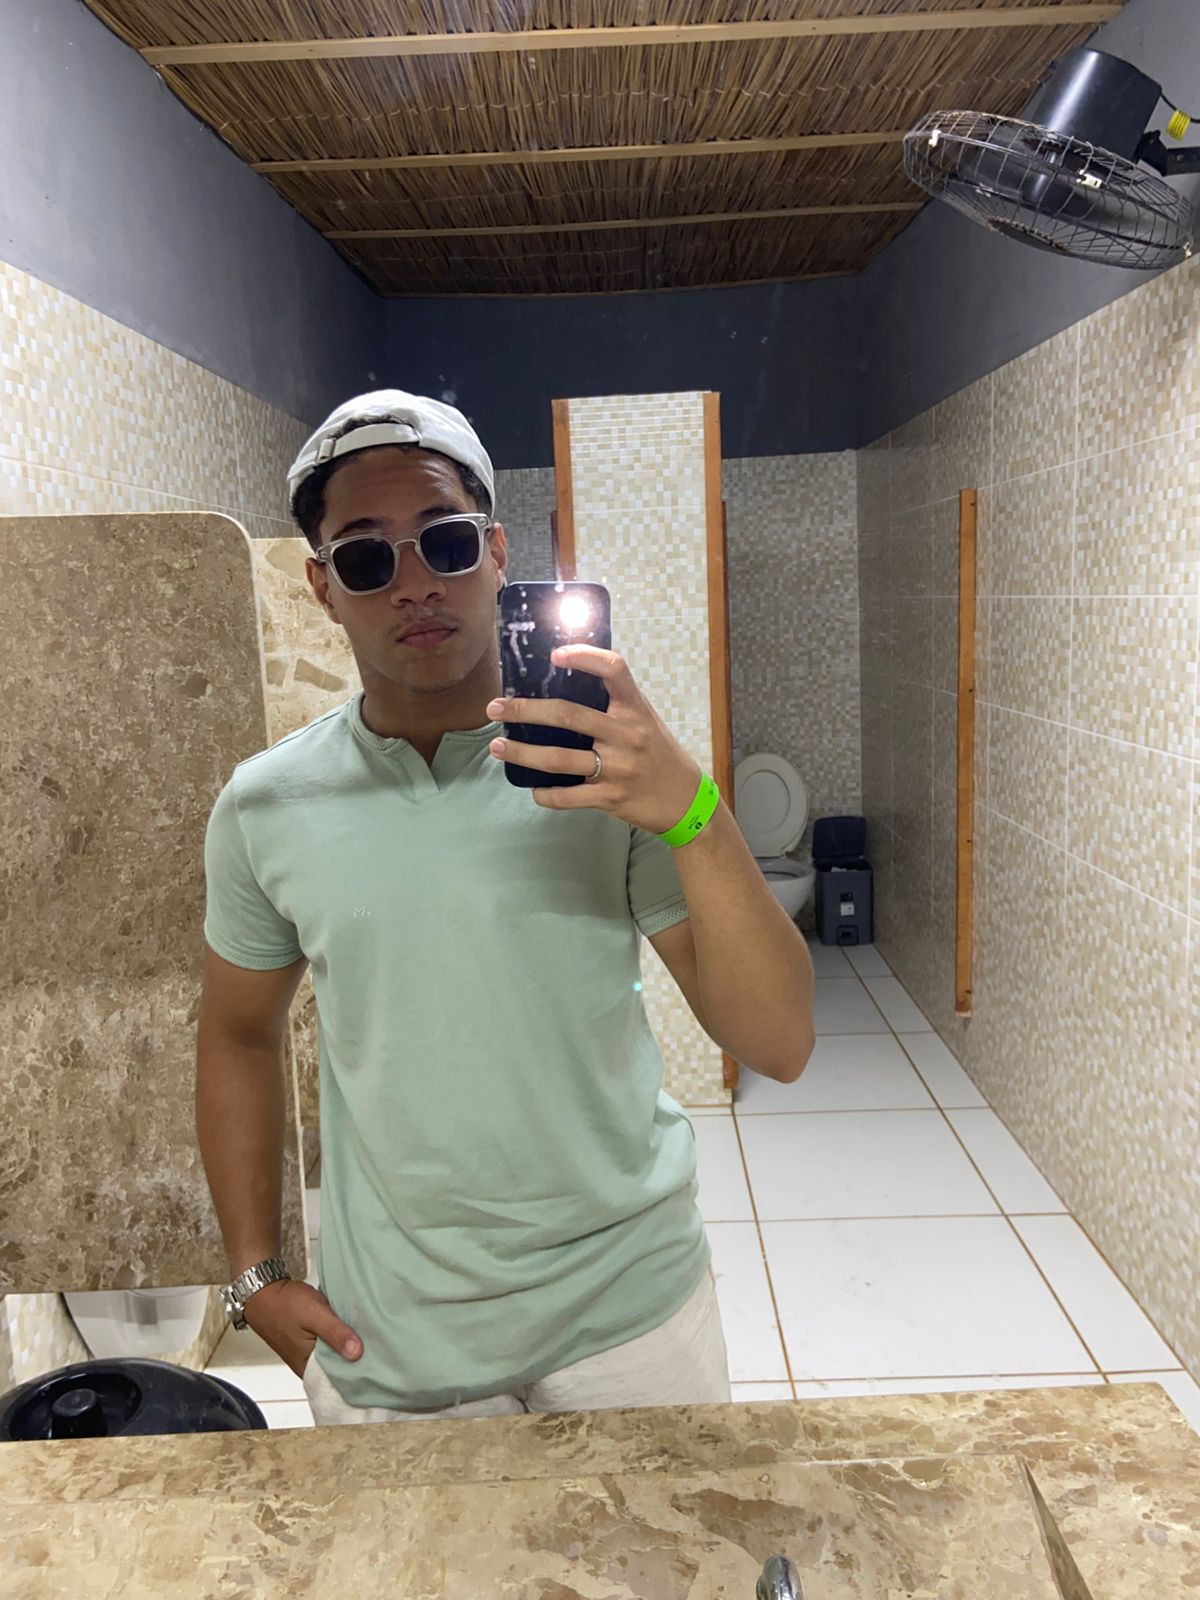
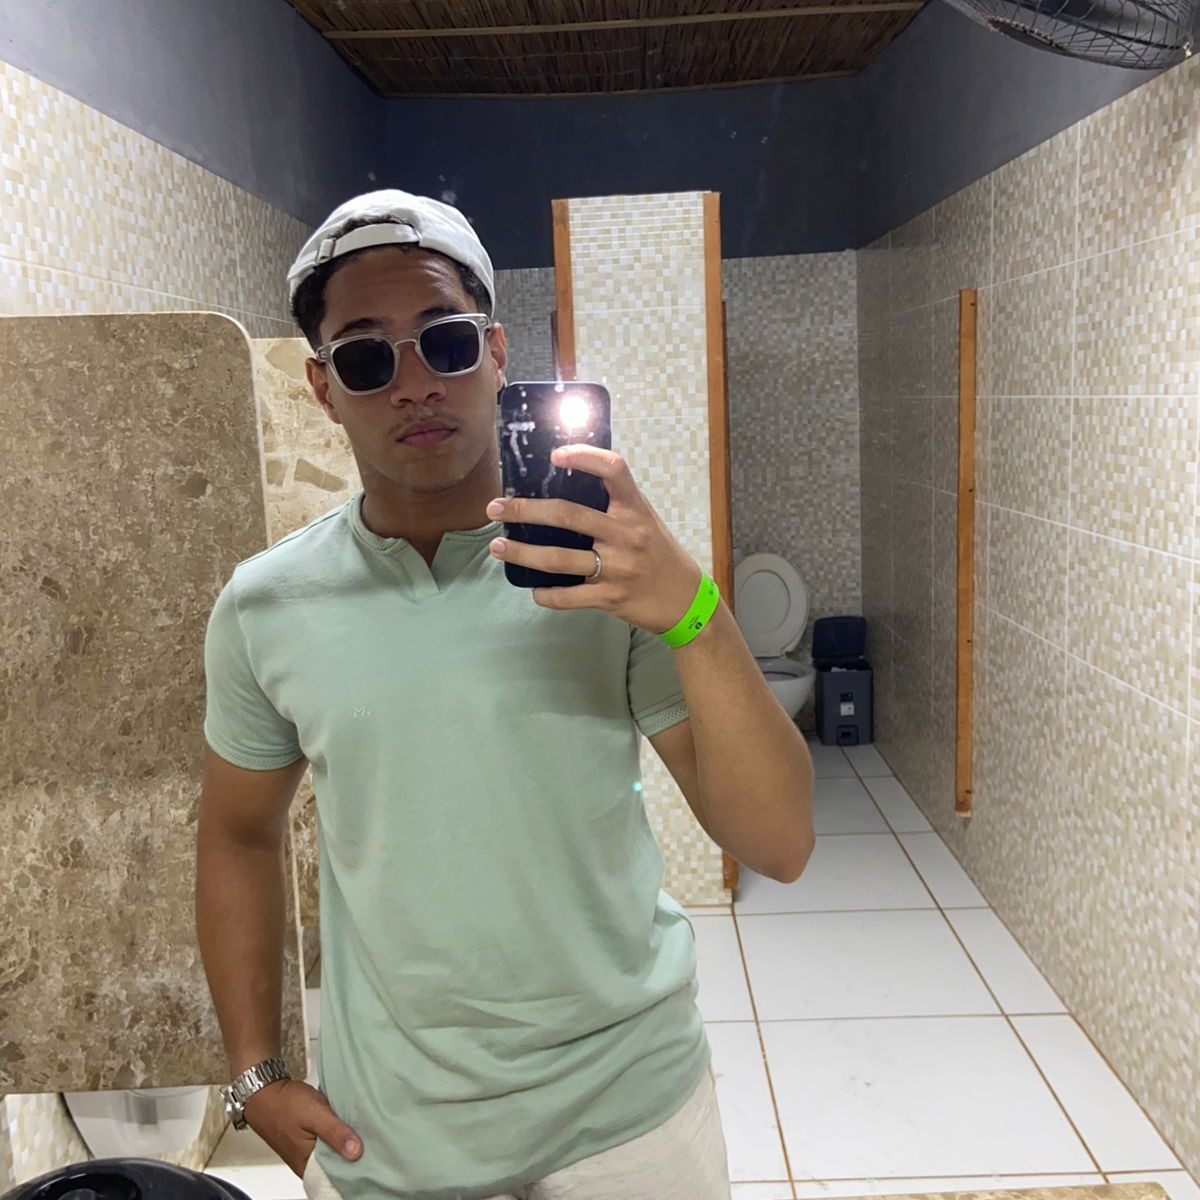
Add Isadora team card and update pedro.jpeg
Populate the previously empty .card-3 in sobre.html with Isadora Fonsceca's image, name, and bio (including alt text). Also update the pedro.jpeg binary file (replacement/modified image).

diff --git a/sobre.html b/sobre.html
@@ -34,8 +34,11 @@
                 <p>Gerente de Marketing da Livraria PSI. Samuel é responsável por desenvolver estratégias de marketing para promover a livraria e seus produtos. Com uma vasta experiência em marketing digital, ele trabalha para aumentar a visibilidade da empresa e atrair novos clientes.</p>
             </div>
             
-            <div class="card-3"></div>
-            
-            </main>
+            <div class="card-3">
+                <img src="isadora.jpeg" alt="Isadora PSI">
+                <strong>Isadora Fonsceca</strong>
+                <p>Gerente de Vendas da Livraria PSI. Isadora é responsável por gerenciar a equipe de vendas e garantir que os clientes tenham uma experiência de compra satisfatória. Com um forte foco no atendimento ao cliente, ela trabalha para construir relacionamentos duradouros com os clientes da livraria.</p>
+            </div>
+        </main>
 </body>
 </html>
